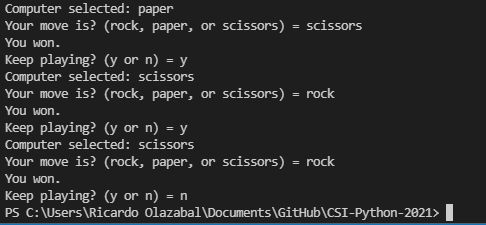
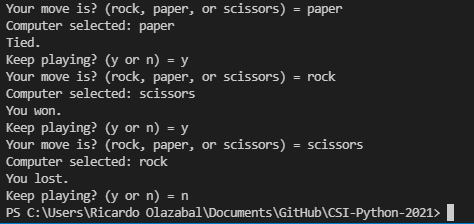
Updated rock paper scissors code
made it more efficient and harder since you dont know what the computer chose untill after youve chosen.

Changed region(s): [[0.0, 0.4688, 1.0, 1.0], [0.0, 0.0, 0.7679, 0.4688]]

diff --git a/Modules/Module5/RockPaperScissors.py b/Modules/Module5/RockPaperScissors.py
@@ -1,13 +1,17 @@
 import random
 def RPS():
     moves = ['rock','paper','scissors']
+    wmoves = ['paper','scissors','rock']
     randChoice = random.choice(moves)
-    print(f'Computer selected: {randChoice}')
     yamove = str(input('Your move is? (rock, paper, or scissors) = '))
-    if (randChoice == 'rock' and yamove == 'paper') or (randChoice == 'paper' and yamove == 'scissors') or (randChoice == 'scissors' and yamove == 'rock'):
+    print(f'Computer selected: {randChoice}')
+    if yamove == wmoves[moves.index(randChoice)]:
         print('You won.')
     else:
-        print('You lost.')
+        if yamove == randChoice:
+            print('Tied.')
+        else:
+            print('You lost.')
     keep = str(input('Keep playing? (y or n) = '))
     if keep == 'y':
         RPS()
